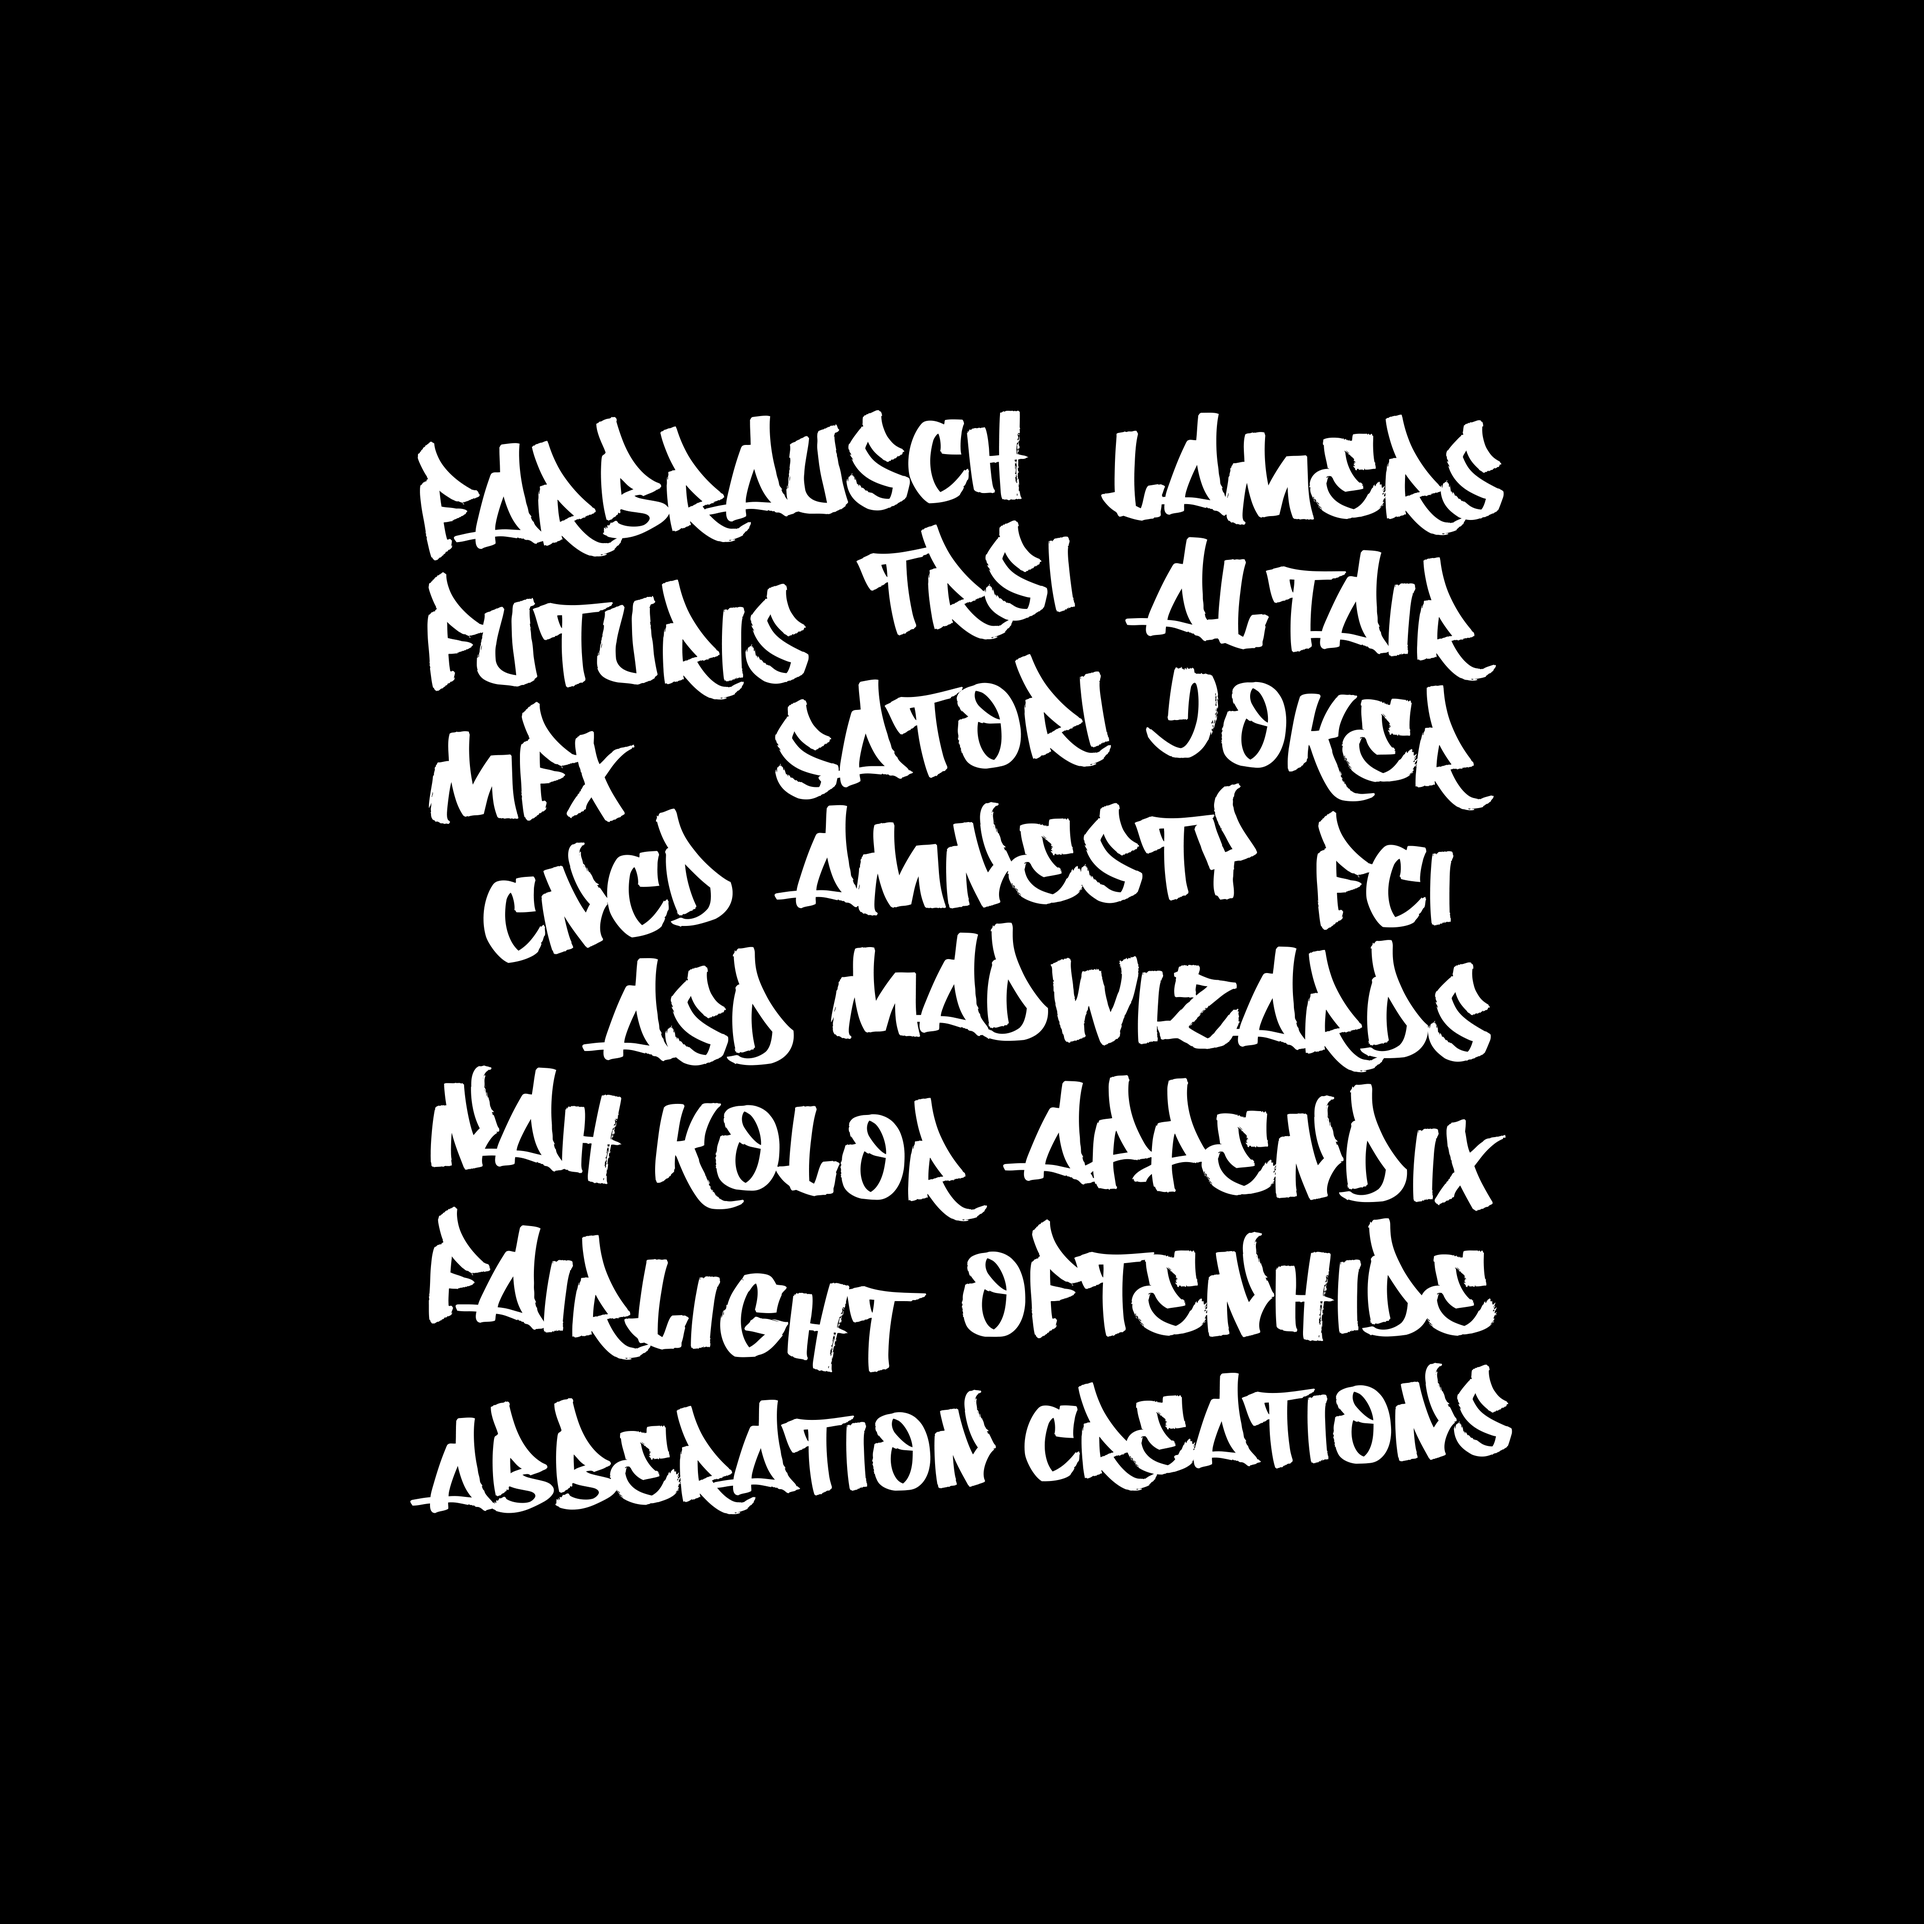
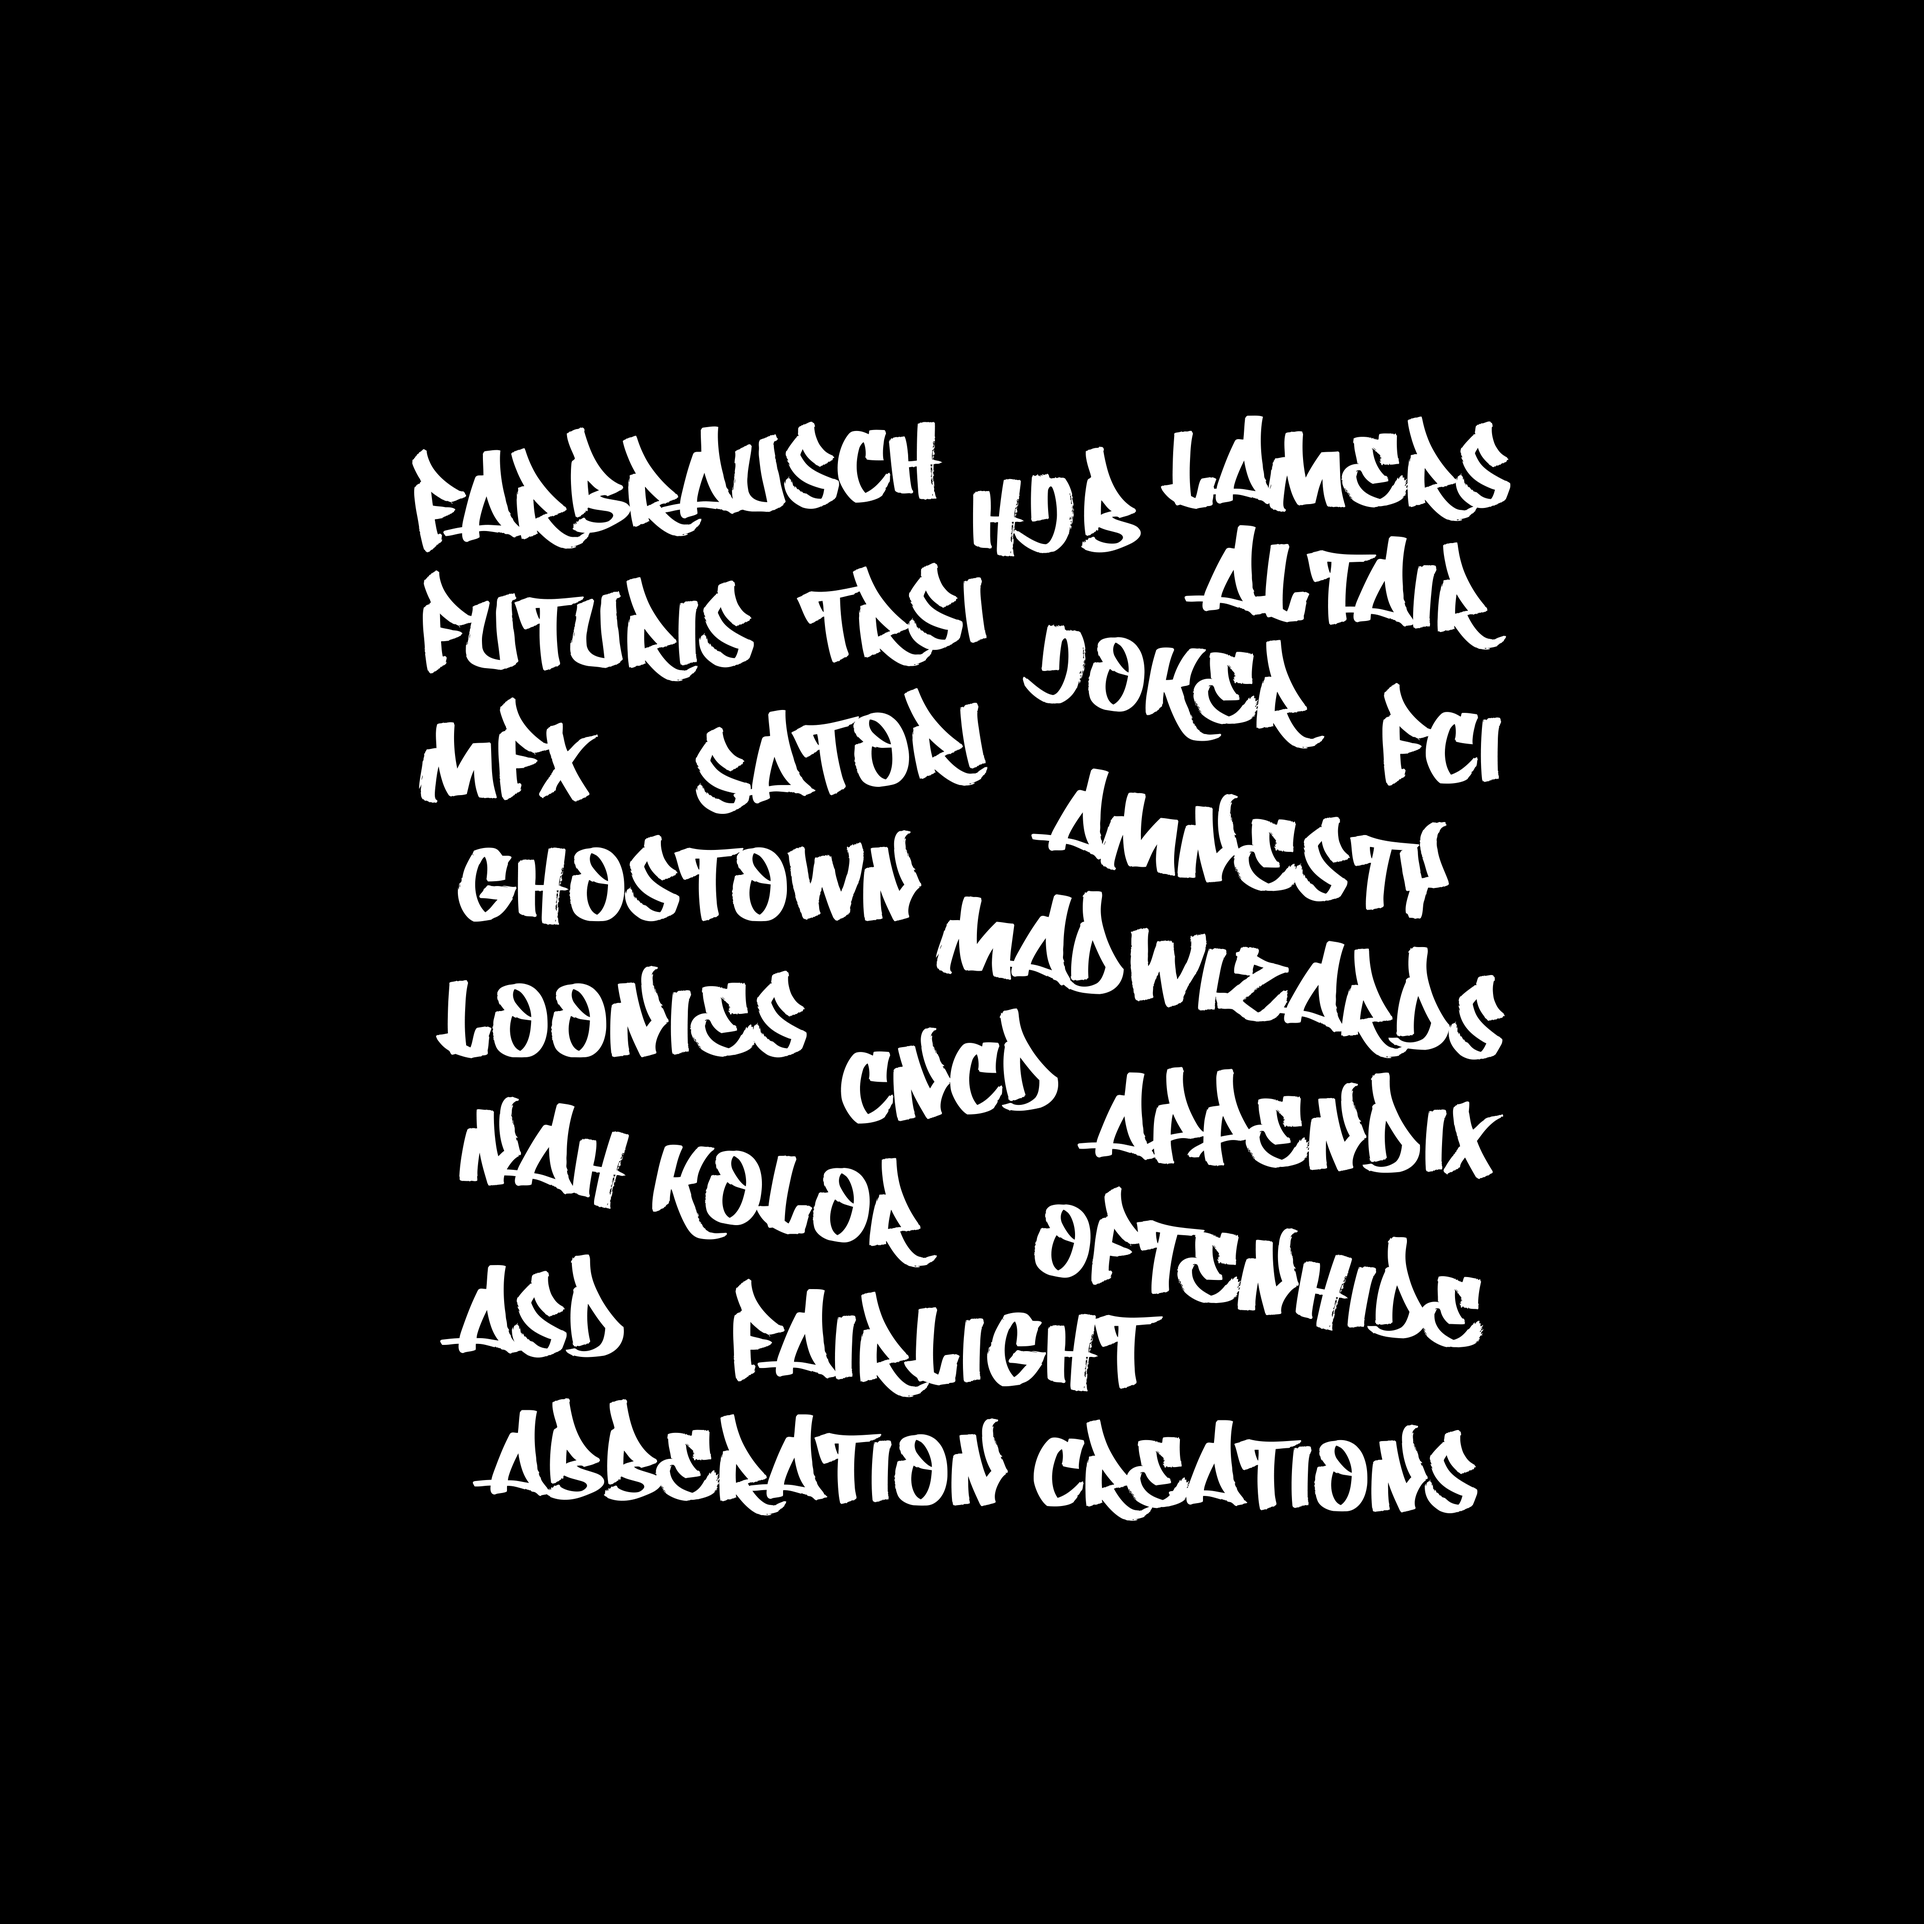
Update

Changed region(s): [[0.2188, 0.2188, 0.7812, 0.8125]]

diff --git a/main.py b/main.py
@@ -49,7 +49,7 @@ if sys.executable == '/Users/miklesz/PycharmProjects/PointCloud/venv/bin/python'
 else:
     DOWNLOAD = False  # True/False
 print('DOWNLOAD:', DOWNLOAD)
-JUMP = 132  # 5, 25, 34, 47, 84, 86, 109, 113, 150, 182, 186, 206, 238, 280
+JUMP = 206  # 5, 25, 34, 47, 84, 86, 109, 113, 150, 182, 186, 206, 238, 280
 PRESETS = [
     {
         'preset': 0,
@@ -1219,7 +1219,7 @@ for text in texts:
             pos=(0, -.95),  # +.96
             fg=(1, 1, 1, 1),
             bg=(0, 0, 0, .5),
-            scale=0.1,  # 0.05
+            scale=0.06,  # 40%
             align=TextNode.ACenter,
         )
     )
@@ -1496,7 +1496,8 @@ greetings_interval = ParticleInterval(
     particleEffect=init_greetings_particle_effect(PRESETS[7]['render_mode_thickness']),
     parent=base.render,
     worldRelative=True,
-    duration=7.44,
+    duration=7.44,  # 7.44, 11.44
+    # softStopT=-1,
     softStopT=-2.25,  # Greetsy do końca nie wygasaja
     # cleanup=True,
     name='greetings'
@@ -1587,7 +1588,7 @@ credits_node = GeomNode('credits gnode')
 credits_node.addGeom(credits_geom)
 credits_node_path = base.render.attachNewNode(credits_node)
 credits_node_path.setTransparency(TransparencyAttrib.M_alpha)
-credits_tex = base.loader.loadTexture('models/credits.png')
+credits_tex = base.loader.loadTexture('models/credits.jpeg')
 credits_node_path.setTexGen(TextureStage.getDefault(), TexGenAttrib.MWorldPosition)
 credits_node_path.setTexTransform(TextureStage.getDefault(), TransformState.makeHpr(LVecBase3f(0, -90, 180)))
 credits_node_path.setTexOffset(TextureStage.getDefault(), .5, .5)
